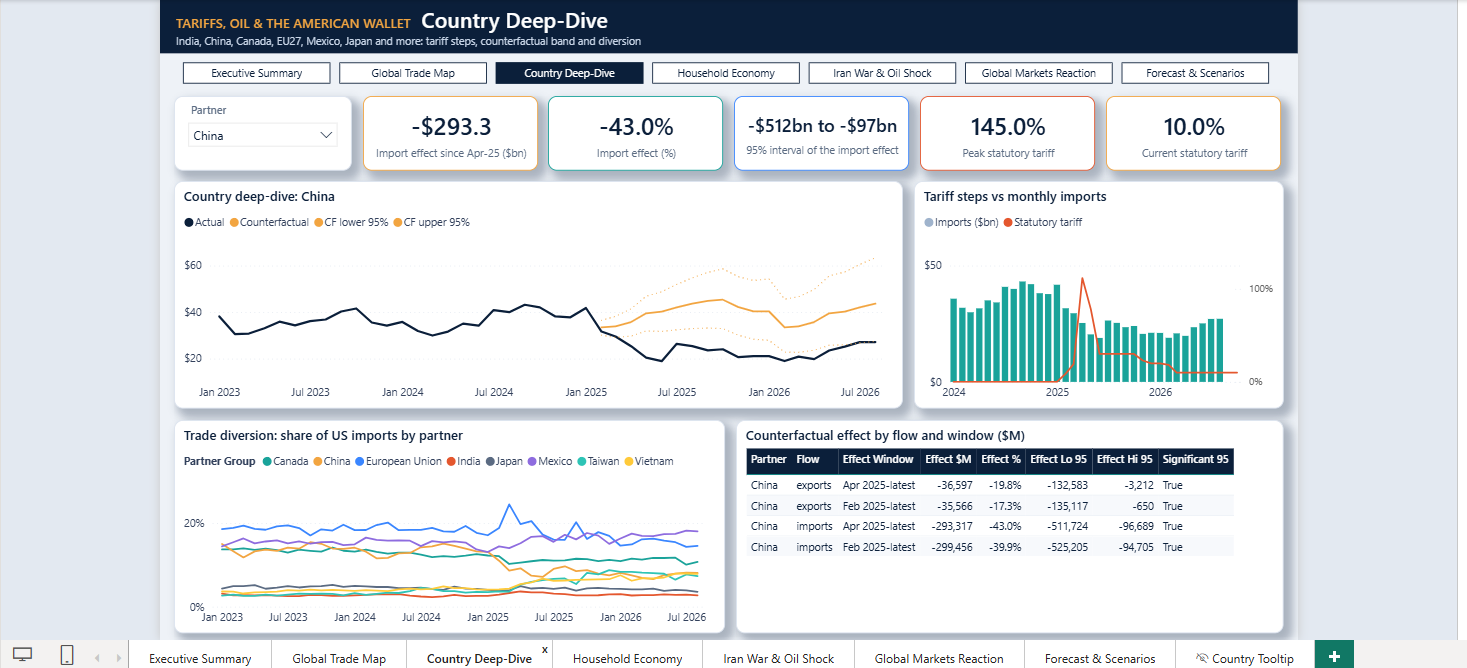
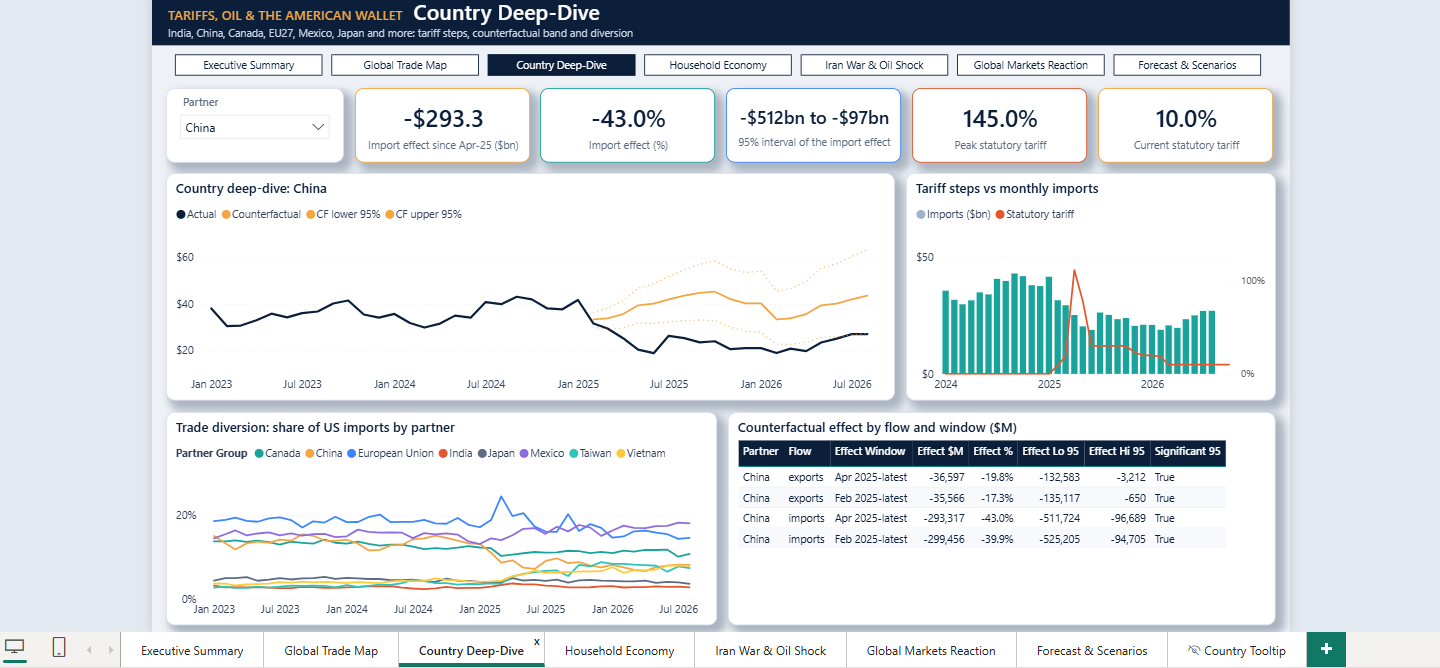
Screenshots: re-captured with legend, counterfactual bar and heatmap fixes; tighter crop

diff --git a/powerbi/tools/crop_screenshots.py b/powerbi/tools/crop_screenshots.py
@@ -2,7 +2,7 @@
 collapsed panes and the Windows taskbar). Idempotent: already-cropped files are skipped.
 
     python powerbi/tools/crop_screenshots.py docs/screenshots
-The same box (x=48..1515, y=168..836 at 1600x900) is used to crop the demo video.
+The same box (x=48..1488, y=168..836 at 1600x900) is used to crop the demo video.
 """
 from __future__ import annotations
 
@@ -11,7 +11,7 @@ from pathlib import Path
 
 from PIL import Image
 
-BOX = (48, 168, 1515, 836)
+BOX = (48, 168, 1488, 836)
 
 
 def main(folder: str) -> None:
